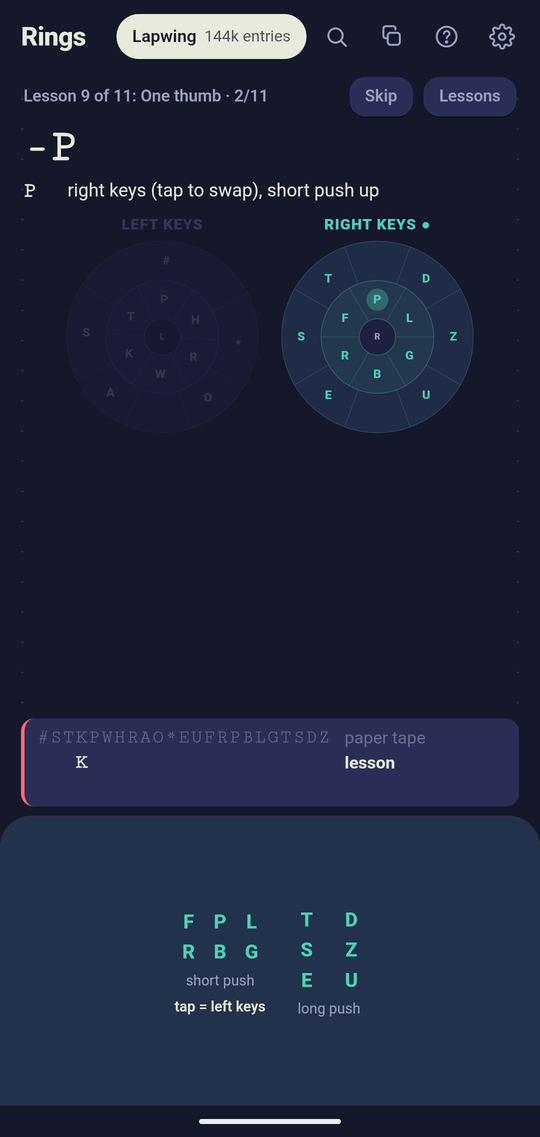
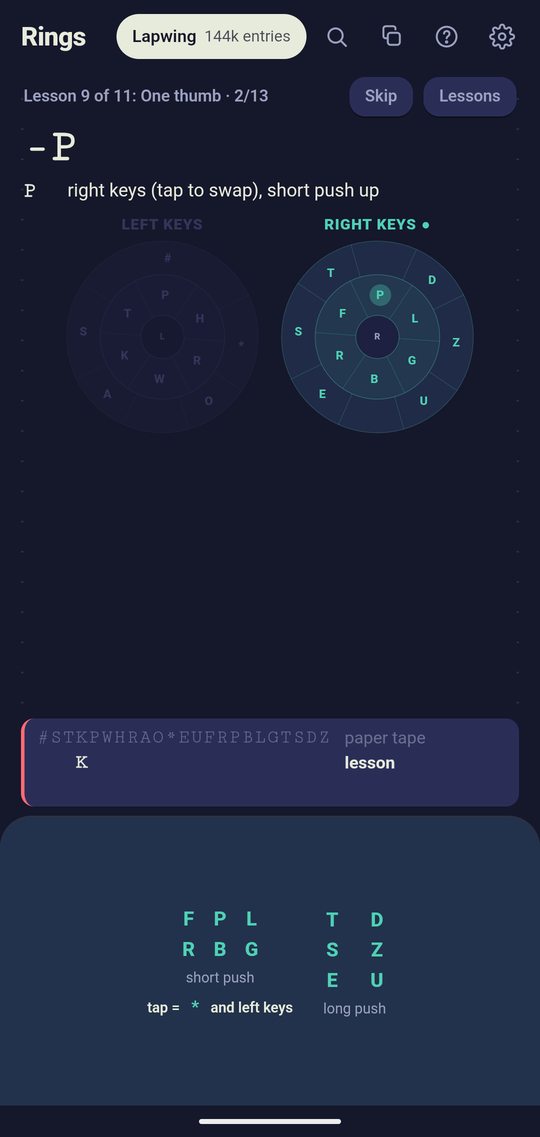
feat(sticks): two taps make the star in one-thumb mode
With one thumb the star was only a long push on the left keys. A tap
while the stick is on the right keys is now that stick's click, the
star, as it is with two thumbs, and takes the stick back to the left.
So two taps make the star from either side and leave the stick where
it was, with nothing to look at. Turning off "Tap a stick for S- and *"
keeps the old tap that only swaps sides.

diff --git a/app/src/main/assets/ui/index.html b/app/src/main/assets/ui/index.html
@@ -80,7 +80,7 @@
       <dt>short push</dt><dd>Your hand's block of six, as on the board: T P H over K W R on the left, -F -P -L over -R -B -G on the right. Push toward a key and lift. Push again for another key from the block.</dd>
       <dt>long push</dt><dd>Keep going past the block and you reach the keys beyond it, where the board has them. The single keys sit out beyond the gaps between the block's keys, so sliding out along a gap touches nothing on the way: S- out to the left between T and K, * out to the right between H and R, A down between K and W, O down between W and R. On the right it is -S and -Z out to the sides, E and U down through the gaps, -T and -D up through them. Straight down through the middle key is both vowels; straight up is the number bar on the left, -T with -D on the right. A strong double tick tells you the push went long. A long push gives the far key in place of any near one, never both.</dd>
       <dt>tap</dt><dd>A quick tap is the stick's click: S- on the left, * on the right. A right tap on its own undoes the last stroke.</dd>
-      <dt>one thumb</dt><dd>Thumbs in Settings, or the two-ring button beside the keyboard's tape, gives you a single stick for writing with one hand. It starts every stroke on the left keys; a quick tap swaps it to the right keys and back. Two ticks say right, one says left, and the pad changes colour. With one thumb S and the star are long pushes on the left keys.</dd>
+      <dt>one thumb</dt><dd>Thumbs in Settings, or the two-ring button beside the keyboard's tape, gives you a single stick for writing with one hand. It starts every stroke on the left keys; a quick tap swaps it to the right keys. A tap on the right keys is the star and takes you back to the left, so two taps make the star wherever you are. Two ticks say right, one says left, and the pad changes colour. With one thumb S is a long push left on the left keys, and the star is there too, out to the right.</dd>
       <dt>dead zones</dt><dd>Nothing counts until your thumb has clearly left the spot where it landed. A thumb that rests, or slides a little and lifts, does nothing. The gaps between the block's keys are dead as well: a short push that ends in one is nothing, never a guess. Rolling onto a neighbour takes a clear move, so a wobble adds no key. A longer tick tells you each stroke has gone and the next can start.</dd>
       <dt>near an edge</dt><dd>The stick is cut off flat where it meets the edge, so all of it stays on the screen. Every key keeps its direction and its width; only pushes toward the edge are shorter, by as much as the room allows. The double tick still marks where long begins.</dd>
     </dl>
@@ -105,11 +105,11 @@
     <h2 id="setTitle">Settings</h2>
     <label class="switch" for="optArp"><span>Arpeggiate<small>For learning. Build a stroke one key at a time with no clock running, then press Send.</small></span><input type="checkbox" class="tog" id="optArp"></label>
     <h3>Sticks</h3>
-    <div class="switch pick"><span>Thumbs<small>Two: a stick for each thumb. One: a single stick over the whole pad, which a quick tap swaps between the left keys and the right. Each stroke starts on the left.</small></span><span class="seg" id="handSeg"><button data-h="2">Two</button><button data-h="1">One</button></span></div>
+    <div class="switch pick"><span>Thumbs<small>Two: a stick for each thumb. One: a single stick over the whole pad, which a quick tap swaps between the left keys and the right. Two taps make the star. Each stroke starts on the left.</small></span><span class="seg" id="handSeg"><button data-h="2">Two</button><button data-h="1">One</button></span></div>
     <div class="plain" style="margin:0 0 4px"><button class="go" id="btnFit">Fit the sticks to my thumbs</button></div>
     <div id="numSticks"></div>
     <div class="switch pick"><span>Rolls<small>What a roll keeps. Go back drops: every key you cross, and coming back onto one takes it out, so T, P, H, back onto P is TH. Backward skips: rolling with steno order keeps every key, against it keeps only the two ends. Keep all: every key you cross stays in.</small></span><span class="seg" id="rollSeg"><button data-r="back">Go back drops</button><button data-r="steno">Backward skips</button><button data-r="all">Keep all</button></span></div>
-    <label class="switch" for="optTap"><span>Tap a stick for S- and *<small>Like clicking the sticks. Both keys also sit beside the left block.</small></span><input type="checkbox" class="tog" id="optTap" checked></label>
+    <label class="switch" for="optTap"><span>Tap a stick for S- and *<small>Like clicking the sticks. Both keys also sit beside the left block. With one thumb this is the star on two taps; off, a tap only swaps sides.</small></span><input type="checkbox" class="tog" id="optTap" checked></label>
     <div id="numTap"></div>
     <h3>Timing</h3>
     <div id="numTime"></div>

diff --git a/app/src/main/assets/ui/js/lessons.js b/app/src/main/assets/ui/js/lessons.js
@@ -74,7 +74,7 @@ var LESSONS = [
       'A quick tap, with no slide, is the middle of the stick: S on the left, the star on the right. The star on its own undoes your last stroke when you are writing.',
     keys: 'S * S *',
     introOne:
-      'With one thumb a tap swaps sides instead, so here S and the star are long pushes on the left keys: S out to the left, the star out to the right.',
+      'With one thumb a tap swaps sides, so here S is a long push out to the left on the left keys. The star is two taps: the first takes you to the right keys, the second is the star and brings you back. It is also a long push out to the right on the left keys.',
   },
   {
     name: 'Long pushes, left',
@@ -112,8 +112,8 @@ var LESSONS = [
     name: 'One thumb',
     one: true,
     intro:
-      'One thumb can do both hands. There is a single stick, and it starts every stroke on the left keys. A quick tap, with no slide, swaps it to the right keys, and another tap swaps it back. The pad changes colour with the side it is on, and the dot in the picture follows it: two ticks say right, one says left. When the stroke is sent the stick is back on the left. This lesson switches to one thumb while it runs; to stay that way, choose One under Thumbs in Settings or use the hand button beside the keyboard tape.',
-    keys: 'K -P T -L KA -B K-B TOP KAT RUG WEB',
+      'One thumb can do both hands. There is a single stick, and it starts every stroke on the left keys. A quick tap, with no slide, swaps it to the right keys. A tap while you are on the right keys is the star, and takes you back to the left: so two taps make the star wherever you are, and leave you where you were. The pad changes colour with the side it is on, and the dot in the picture follows it: two ticks say right, one says left. When the stroke is sent the stick is back on the left. This lesson switches to one thumb while it runs; to stay that way, choose One under Thumbs in Settings or use the hand button beside the keyboard tape.',
+    keys: 'K -P T -L * KA -B K-B KA* TOP KAT RUG WEB',
   },
   { name: 'Short words from your dictionaries', words: [1, 3] },
   { name: 'Longer words from your dictionaries', words: [4, 99] },
@@ -400,7 +400,14 @@ function renderCalib() {
 // how to make a key, in words, for the way the sticks are set up now
 function howTo(k) {
   if (opt.hands !== 1) return HOW[k];
-  var text = k === 'S-' ? 'left thumb, long push left' : k === '*' ? 'left thumb, long push right' : HOW[k];
+  var text =
+    k === 'S-'
+      ? 'left thumb, long push left'
+      : k !== '*'
+        ? HOW[k]
+        : opt.tap
+          ? 'tap twice'
+          : 'left thumb, long push right';
   return text.replace('left thumb', 'left keys').replace('right thumb', 'right keys (tap to swap)');
 }
 function renderLesson() {

diff --git a/app/src/main/assets/ui/js/sticks.js b/app/src/main/assets/ui/js/sticks.js
@@ -183,7 +183,9 @@ function drawMaps(side) {
     block +
     '</div><small>short push</small>' +
     (opt.hands === 1
-      ? '<small class="tap">tap = ' + (side === 'l' ? 'right keys' : 'left keys') + '</small>'
+      ? '<small class="tap">tap = ' +
+        (side === 'l' ? 'right keys' : (opt.tap ? '<b data-k="*">*</b> and ' : '') + 'left keys') +
+        '</small>'
       : opt.tap
         ? '<small class="tap">tap = <b data-k="' +
           (side === 'l' ? 'S-' : '*') +
@@ -209,7 +211,7 @@ var deck = $('deck'),
   hist = [],
   sendTimer = 0;
 // One thumb (opt.hands === 1): a single stick over the whole pad. It is on one hand's keys at a time, starts every
-// stroke on the left, and a quick tap swaps it to the other hand.
+// stroke on the left, and a quick tap swaps it to the other hand. A tap that leaves the right keys is also the star.
 var hand = 'l';
 function pending() {
   var m = 0;
@@ -435,8 +437,12 @@ function lift(e) {
   else if (!t.did && e.type === 'pointerup' && t.maxR < opt.tapr && performance.now() - t.t0 < opt.tapms) {
     // a quick tap. A rest, or a slide that never left the dead zone, is nothing
     if (opt.hands === 1) {
-      hand = hand === 'l' ? 'r' : 'l'; // one thumb: it swaps the stick to the other hand's keys
-      buzz(hand === 'r' ? [10, 40, 10] : 6); // two ticks: now on the right. One: back on the left
+      // one thumb: it swaps the stick to the other hand's keys. On the right keys it is also that stick's click, the
+      // star, as it is with two thumbs. So two taps make the star from either side and leave the stick where it was
+      var before = chord;
+      if (hand === 'r' && opt.tap) press(BIT['*']);
+      hand = hand === 'l' ? 'r' : 'l';
+      if (chord === before) buzz(hand === 'r' ? [10, 40, 10] : 6); // two ticks: now on the right. One: back on the left
     } else if (opt.tap) press(BIT[t.side === 'l' ? 'S-' : '*']); // two thumbs: it is the stick's click
   }
   delete touches[e.pointerId];

diff --git a/app/src/main/assets/ui/js/panel.js b/app/src/main/assets/ui/js/panel.js
@@ -15,7 +15,7 @@ function doAct(what) {
     opt.hands = opt.hands === 1 ? 2 : 1;
     saveMeta();
     applyOpts();
-    toast(opt.hands === 1 ? 'One thumb: a tap swaps between the left keys and the right' : 'Two thumbs');
+    toast(opt.hands === 1 ? 'One thumb: a tap swaps between the left keys and the right. Two taps make *' : 'Two thumbs');
   } else if (what === 'setup') {
     if ($('setup').dataset.s === 'off') NATIVE.keyboardSettings();
     else NATIVE.pickKeyboard();

diff --git a/README.md b/README.md
@@ -46,7 +46,8 @@ settings.
 - **Tap**: the stick's click, `S` on the left and `*` (undo) on the right.
 - **Roll**: slide from one key onto its neighbor to take both.
 - **Lift both thumbs**: after a short wait the stroke is sent.
-- **One thumb**: a single stick does both hands, and a tap swaps it between the left keys and the right.
+- **One thumb**: a single stick does both hands. A tap swaps it between the left keys and the right, and two taps
+  make `*`.
 
 A double tick means the push went long. A longer tick means the stroke was sent, and three ticks mean it had no
 entry.
@@ -85,7 +86,7 @@ You need an arm64 phone running Android 11 or later.
    [Development](#development)) and install it over USB:
 
    ```sh
-   adb install -r app/build/outputs/apk/release/rings-1.0.0-release.apk
+   adb install -r app/build/outputs/apk/release/rings-1.1.0-release.apk
    ```
 
 2. Open **Rings**. A banner offers to take you to the phone's keyboard settings. Switch **Rings steno** on there.
@@ -117,13 +118,15 @@ Choose **One** under Thumbs in Settings, or tap the two-ring button beside the k
 single stick you can land on anywhere.
 
 - Every stroke starts on the **left keys**.
-- A quick **tap** swaps the stick to the **right keys**, and another tap swaps it back.
+- A quick **tap** swaps the stick to the **right keys**.
+- A tap while you're on the right keys is `*`, and takes you back to the left. So **two taps make `*`** from either
+  side, and leave the stick where it was.
 - Two ticks say right, one says left, and the pad changes color with the side it's on.
 - Once the stroke is sent the stick is back on the left. If you tap and then wait, it stays swapped until you write
   the stroke.
 
-With one thumb, `S` and `*` are long pushes on the left keys (left and right), because the tap is busy swapping.
-The same button or setting takes you back to two thumbs.
+With one thumb, `S` is a long push left on the left keys, because the tap is busy swapping. `*` is there too, out to
+the right. The same button or setting takes you back to two thumbs.
 
 <br clear="right">
 
@@ -256,8 +259,8 @@ tests/                  Engine tests and an on-device check
 ### Build
 
 ```sh
-./gradlew assembleDebug        # app/build/outputs/apk/debug/rings-1.0.0-debug.apk
-./gradlew assembleRelease      # app/build/outputs/apk/release/rings-1.0.0-release.apk
+./gradlew assembleDebug        # app/build/outputs/apk/debug/rings-1.1.0-debug.apk
+./gradlew assembleRelease      # app/build/outputs/apk/release/rings-1.1.0-release.apk
 ```
 
 The debug build turns on WebView debugging so you can inspect the page over adb. The release build doesn't.
